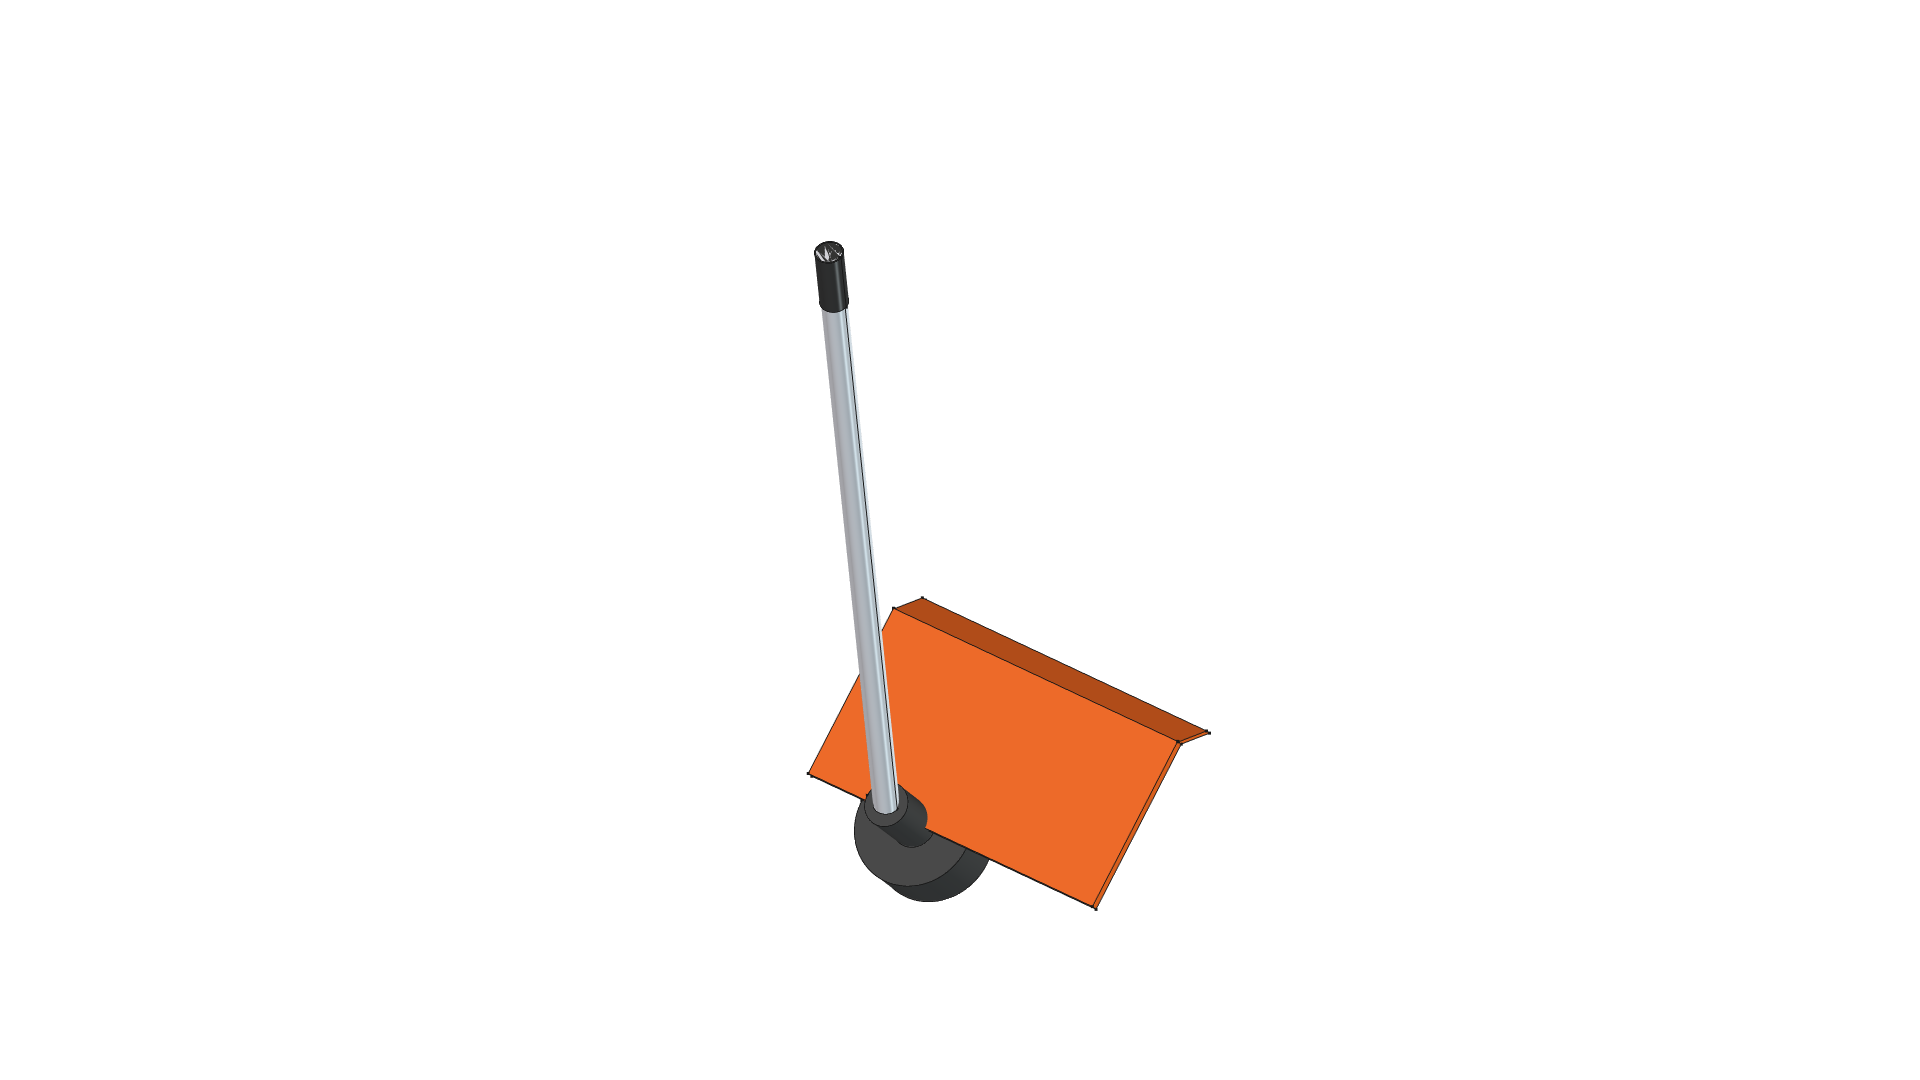
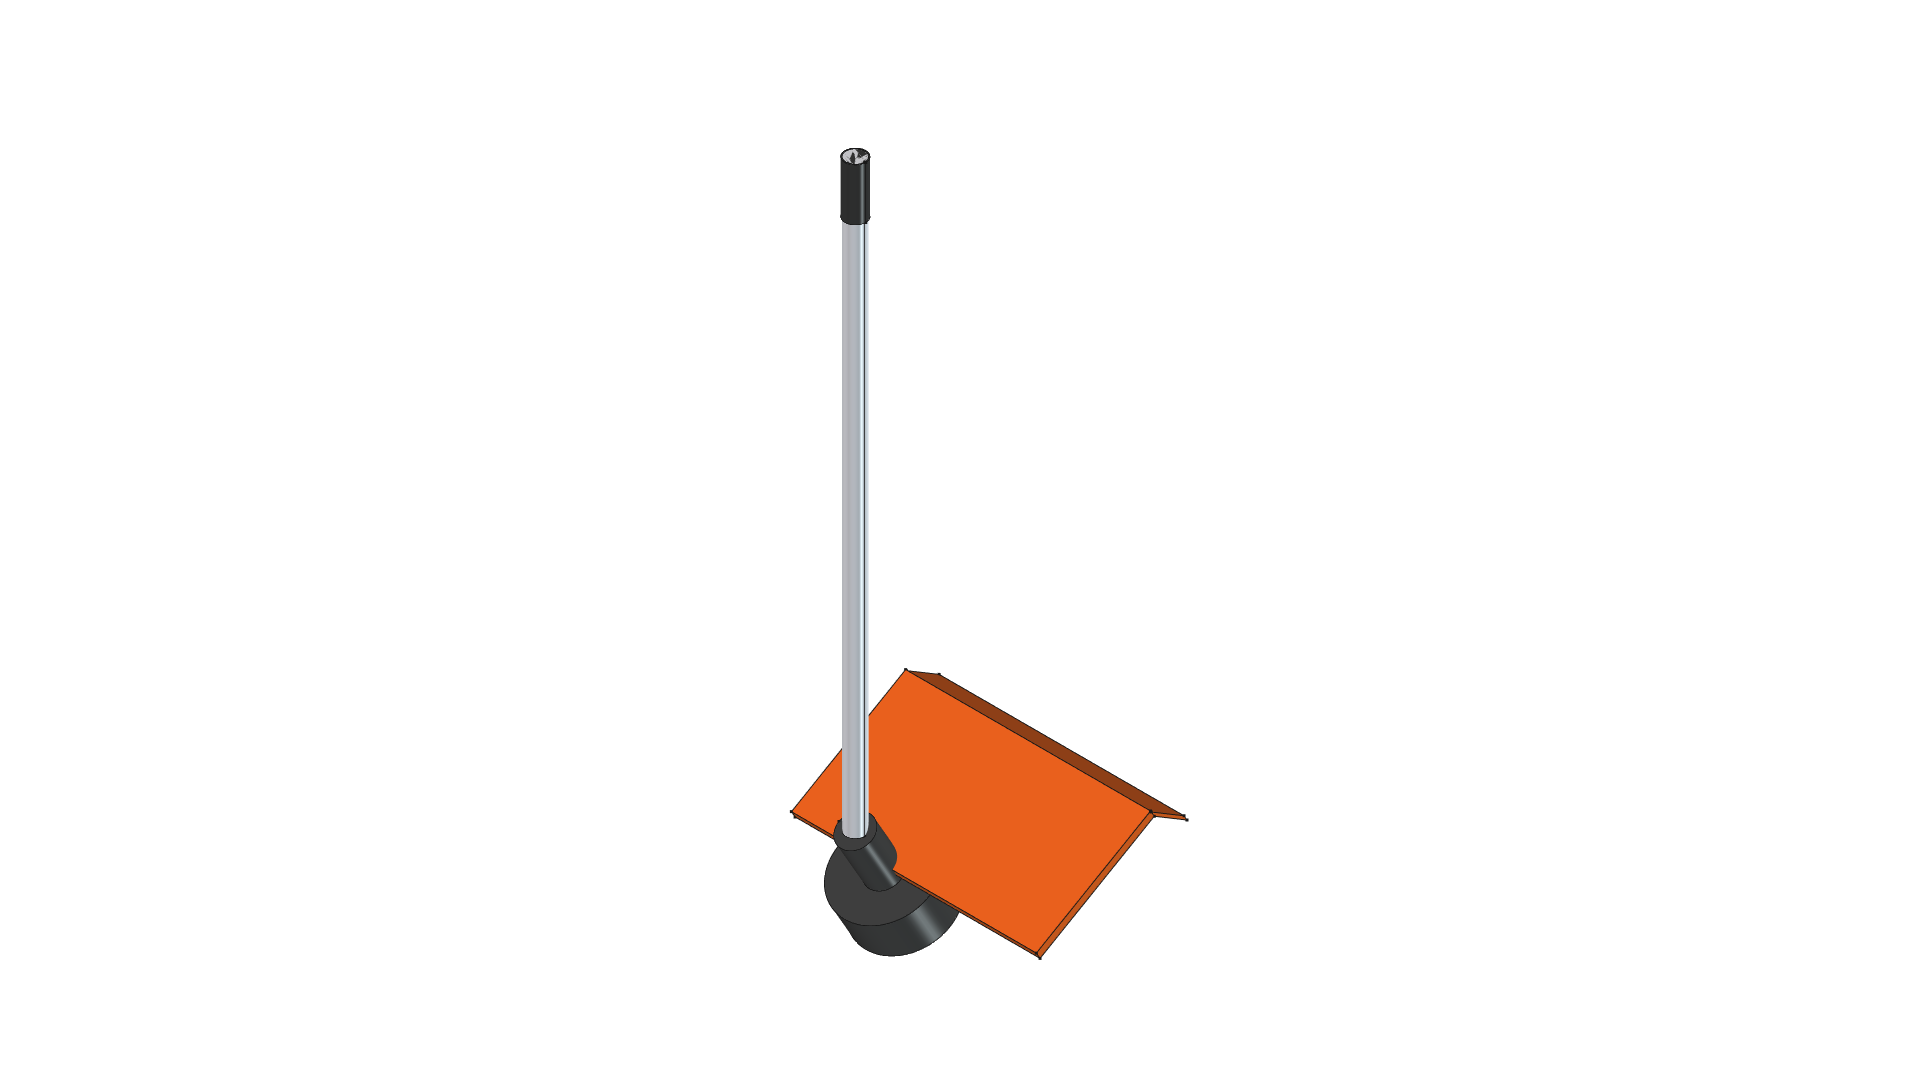
docs(readme): standardize README template structure, separate projects/components on home page, and embed 7-view galleries

Changed region(s): [[0.4062, 0.1222, 0.625, 0.8861]]

diff --git a/components/kombi_tools/build_trimmer.py b/components/kombi_tools/build_trimmer.py
@@ -3,38 +3,21 @@ import sys
 import FreeCAD
 import Part
 
+# Ensure src directory is on sys.path for shared imports
+maker_dir = os.path.abspath(os.path.join(os.path.dirname(__file__), "..", ".."))
+src_dir = os.path.join(maker_dir, "src")
+if src_dir not in sys.path:
+    sys.path.insert(0, src_dir)
+
 try:
     import FreeCADGui
     FreeCADGui.showMainWindow()
     HAS_GUI = True
 except Exception:
+    FreeCADGui = None
     HAS_GUI = False
 
-def render_views(gui_doc, base_path):
-    if not HAS_GUI or not gui_doc:
-        return
-    FreeCADGui.updateGui()
-    view = gui_doc.activeView()
-    if view:
-        try:
-            view.setCameraType("Orthographic")
-            
-            # Iso view
-            view.viewIsometric()
-            view.fitAll()
-            view.saveImage(f"{base_path}_iso.png", 1920, 1080, "White")
-            
-            # Top view
-            view.viewTop()
-            view.fitAll()
-            view.saveImage(f"{base_path}_top.png", 1920, 1080, "White")
-
-            # Right Side View
-            view.viewRight()
-            view.fitAll()
-            view.saveImage(f"{base_path}_side.png", 1920, 1080, "White")
-        except Exception as e:
-            print(f"Camera render note: {e}")
+from phi_works.maker.render import export_orthogonal_views
 
 def build_trimmer_model():
     doc_name = "kombi_trimmer"
@@ -148,8 +131,9 @@ def build_trimmer_model():
     doc.saveAs(fc_path)
     print(f"Saved trimmer model with corrected shield offset to {fc_path}")
 
-    if HAS_GUI:
-        render_views(FreeCADGui.getDocument(doc_name), base_png)
+    if HAS_GUI and FreeCADGui and FreeCADGui.getDocument(doc_name):
+        base_prefix = os.path.join(out_dir, "trimmer")
+        export_orthogonal_views(FreeCADGui.getDocument(doc_name), base_prefix, model_prefix="trimmer")
 
 if __name__ == "__main__":
     build_trimmer_model()

diff --git a/README.md b/README.md
@@ -17,18 +17,6 @@ Rather than expecting an AI agent to generate complex physical objects out of wh
 
 ---
 
-## Master Visual Gallery
-
-| Towable Flame Weeding Sled (v04 Iso) | STIHL Kombi Attachment Caddy (v10 Iso) |
-| :---: | :---: |
-| ![Flame Sled Render](projects/flame-weeding-sled/flame_sled_iso.png) | ![Kombi Caddy Render](projects/caddy/caddy_iso.png) |
-| **Kombi Caddy Front Elevation** | **Kombi Caddy Side Elevation** |
-| ![Kombi Caddy Front](projects/caddy/caddy_front.png) | ![Kombi Caddy Right Side](projects/caddy/caddy_right.png) |
-| **STIHL Straight Shaft Line Trimmer** | **Harbor Freight #91037 Propane Torch** |
-| ![STIHL Line Trimmer Render](components/kombi_tools/trimmer_iso.png) | [Harbor Freight Torch Module Documentation](components/torch_hf91037/) |
-
----
-
 ## Core Operating Principles
 
 ### 1. The Human-AI Collaborative Loop
@@ -54,19 +42,14 @@ Real-world physical assemblies are built from reusable commercial tools, standar
 - **Commercial & Purchased Tools (`components/`)**: Items such as the Harbor Freight #91037 Propane Torch, STIHL Kombi tool attachments, fixed caster wheels, and clevis hitches are modeled once as standalone, independent 3D modules in `components/`. Once modeled, they become permanent, reusable building blocks for any host assembly.
 - **Physical Assembly Projects (`projects/`)**: Complete physical designs (e.g. `caddy`, `flame-weeding-sled`) import these component modules and structure lumber/metal frames around them.
 
-### 3. Practical DIY Shop Focus
-**Maker** prioritizes accessible, real-world shop machinery that fabricators actually own:
-- **Primary Tooling**: Table saws, band saws, miter saws, angle grinders with cut-off wheels, flux-core MIG welders, drill presses, and basic hand tools.
-- **Extensible Pathway**: Designed for seamless future integration with 3D printers, laser cutters, CNC routers, and plasma tables.
-
-### 4. Living Requirements Lifecycle (`REQUIREMENTS.md`)
+### 3. Living Requirements Lifecycle (`REQUIREMENTS.md`)
 Requirements are not static one-time prompts. Each project maintains:
 - **`projects/<project>/REQUIREMENTS.md`**: Master project vision, constraints, and target specifications.
 - **`projects/<project>/vXX/REQUIREMENTS.md`**: Iteration-specific requirements, design trade-offs, and delta refinements.
 
 ---
 
-## Directory Architecture & Master Index
+## Directory Architecture
 
 ```
 /home/phi/PROJECTS/phi-WORKS/maker/
@@ -76,55 +59,52 @@ Requirements are not static one-time prompts. Each project maintains:
 ├── GEMINI.md                 # Agent context & operating manual for Gemini CLI
 ├── ROADMAP.md                # Component library roadmap & physical project goals
 ├── pyproject.toml            # Python package metadata & build settings
+├── src/                      # Primary Python library source (phi_works_maker)
 │
 ├── components/               # Standalone Reusable Commercial Tools & Hardware Library
 │   ├── torch_hf91037/        # Harbor Freight #91037 Propane Torch module & 3D model
 │   └── kombi_tools/          # STIHL Kombi tool attachments & trimmer 3D models
 │
-├── projects/                 # Physical Projects & Master Assemblies
-│   ├── caddy/                # STIHL Kombi Attachment Caddy (v01..v10 master)
-│   └── flame-weeding-sled/   # Towable Flame Weeding Sled (v01..v04 master)
-│
-└── templates/                # Starter boilerplates for new components & projects
-    ├── component_template.py # Boilerplate template for new CAD component modules
-    └── project_template.py   # Boilerplate template for new physical CAD projects
+└── projects/                 # Physical Projects & Master Assemblies
+    ├── caddy/                # STIHL Kombi Attachment Caddy (v01..v10 master)
+    └── flame-weeding-sled/   # Towable Flame Weeding Sled (v01..v04 master)
 ```
 
 ---
 
-## Master Project & Documentation Index
+## Physical Projects
 
 ### 1. [Towable Flame Weeding Sled](projects/flame-weeding-sled/README.md)
-- **Application**: Gravel driveway weed suppression via targeted thermal shock ($150^\circ\text{F}$–$180^\circ\text{F}$).
-- **Torch Component**: [Harbor Freight Propane Torch #91037](components/torch_hf91037/)
-- **Quick Links**:
-  - 📋 [**REQUIREMENTS.md**](projects/flame-weeding-sled/REQUIREMENTS.md): Master Requirements Specification
-  - 📐 [**SPECIFICATION.md**](projects/flame-weeding-sled/v04/SPECIFICATION.md): Version 04 Engineering & Kinematics Spec
-  - ✂ [**CUT_LIST.md**](projects/flame-weeding-sled/v04/CUT_LIST.md): Sheet Metal Panel & Angle Grinder Cut List
-  - 🛠 [**FABRICATION_GUIDE.md**](projects/flame-weeding-sled/v04/FABRICATION_GUIDE.md): MIG Welding & Assembly Guide
-  - 📦 [**BOM.md**](projects/flame-weeding-sled/v04/BOM.md): Complete Bill of Materials & Hardware Specs
-  - 🛠 [**build.py**](projects/flame-weeding-sled/v04/build.py): FreeCAD Parametric Generator Script
-  - 📂 [**Master Directory (v04)**](projects/flame-weeding-sled/v04/): Self-Contained Version 04 Folder
+
+| Project Master Render | Quick Specs & Master Links |
+| :---: | :--- |
+| ![Flame Sled Render](projects/flame-weeding-sled/flame_sled_iso.png) | • **Application**: Gravel driveway weed suppression via thermal shock ($150^\circ\text{F}$–$180^\circ\text{F}$).<br>• **Master Version**: [**Version 04**](projects/flame-weeding-sled/v04/)<br>• 📋 [**REQUIREMENTS.md**](projects/flame-weeding-sled/REQUIREMENTS.md)<br>• 📐 [**SPECIFICATION.md**](projects/flame-weeding-sled/v04/SPECIFICATION.md)<br>• ✂ [**CUT_LIST.md**](projects/flame-weeding-sled/v04/CUT_LIST.md)<br>• 🛠 [**FABRICATION_GUIDE.md**](projects/flame-weeding-sled/v04/FABRICATION_GUIDE.md)<br>• 📦 [**BOM.md**](projects/flame-weeding-sled/v04/BOM.md) |
 
 ### 2. [STIHL Kombi Attachment Caddy](projects/caddy/README.md)
-- **Application**: Heavy-duty 2x4 mobile storage rack for STIHL KombiSystem powerhead and attachments.
-- **Component Library**: [STIHL Kombi Tools Component Library](components/kombi_tools/)
-- **Quick Links**:
-  - 📋 [**REQUIREMENTS.md**](projects/caddy/REQUIREMENTS.md): Master Requirements Specification
-  - 📐 [**SPECIFICATION.md**](projects/caddy/v10/SPECIFICATION.md): Version 10 Engineering & Joinery Spec
-  - ✂ [**CUT_LIST.md**](projects/caddy/v10/CUT_LIST.md): Lumber Cut List, Dado Notch Specs & Fasteners
-  - 🛠 [**build.py**](projects/caddy/v10/build.py): FreeCAD Parametric Generator Script
-  - 📂 [**Master Directory (v10)**](projects/caddy/v10/): Self-Contained Version 10 Folder
 
-### 3. Reusable Commercial Components Library
-- 🛠 **Harbor Freight #91037 Torch**: [`components/torch_hf91037/README.md`](components/torch_hf91037/README.md) | [`torch_hf91037.py`](components/torch_hf91037/torch_hf91037.py) | [`torch_hf91037.FCStd`](components/torch_hf91037/torch_hf91037.FCStd)
-- 🛠 **STIHL Kombi Attachment Suite**: [`components/kombi_tools/README.md`](components/kombi_tools/README.md) | [`build_trimmer.py`](components/kombi_tools/build_trimmer.py) | [`trimmer.FCStd`](components/kombi_tools/trimmer.FCStd) | [`build_kombi_tools.py`](components/kombi_tools/build_kombi_tools.py)
+| Project Master Render | Quick Specs & Master Links |
+| :---: | :--- |
+| ![Kombi Caddy Render](projects/caddy/caddy_iso.png) | • **Application**: Mobile 2x4 wooden rack for STIHL KombiSystem storage.<br>• **Master Version**: [**Version 10**](projects/caddy/v10/)<br>• 📋 [**REQUIREMENTS.md**](projects/caddy/REQUIREMENTS.md)<br>• 📐 [**SPECIFICATION.md**](projects/caddy/v10/SPECIFICATION.md)<br>• ✂ [**CUT_LIST.md**](projects/caddy/v10/CUT_LIST.md)<br>• 🛠 [**build.py**](projects/caddy/v10/build.py) |
+
+---
+
+## Component Libraries
+
+### 1. [Harbor Freight #91037 Propane Torch](components/torch_hf91037/README.md)
+
+| Component Render | Specifications & Links |
+| :---: | :--- |
+| ![Harbor Freight Torch Render](components/torch_hf91037/torch_hf91037_iso.png) | • **Application**: High-output propane burner with push-button igniter.<br>• 🛠 [**`torch_hf91037.py`**](components/torch_hf91037/torch_hf91037.py)<br>• 📦 [**`torch_hf91037.FCStd`**](components/torch_hf91037/torch_hf91037.FCStd) |
+
+### 2. [STIHL Kombi Tools Component Library](components/kombi_tools/README.md)
+
+| Component Render | Specifications & Links |
+| :---: | :--- |
+| ![STIHL Line Trimmer Render](components/kombi_tools/trimmer_iso.png) | • **Application**: 3D parametric models for STIHL straight-shaft attachments.<br>• 🛠 [**`build_trimmer.py`**](components/kombi_tools/build_trimmer.py)<br>• 📦 [**`trimmer.FCStd`**](components/kombi_tools/trimmer.FCStd) |
 
 ---
 
 ## FreeCAD Execution Commands
-
-To build the active master model of any project directly in FreeCAD headless mode:
 
 ```bash
 # Build Caddy Version 10 Master Model

diff --git a/projects/flame-weeding-sled/v04/README.md b/projects/flame-weeding-sled/v04/README.md
@@ -1,27 +1,39 @@
-# Towable Flame Weeding Sled — Version 04 (Master)
+# Towable Flame Weeding Sled - Version 04 (Master Version)
 
 **Version Directory**: `projects/flame-weeding-sled/v04/`  
-**Master Model Copy**: [`../flame_sled.FCStd`](../flame_sled.FCStd)  
-**Status**: **Optimal Master Version**  
+**Master Version CAD Model**: [`sled_v04.FCStd`](sled_v04.FCStd)  
+**Parent Project**: [Flame Weeding Sled Master Directory](../)  
 
 ---
 
-## 3D CAD Model Render (v04)
+## Version Overview
 
-![Flame Sled v04 Render](sled_v04.png)
+**Version 04** is the active master release of the Towable Flame Weeding Sled. It organizes the 3D parametric FreeCAD assembly into 4 modular `App::DocumentObjectGroup` containers (`Flame_Sled_Pyramid_Hood`, `Overhead_Support_Frame`, `Rigid_Towbar_Hitch`, `Harbor_Freight_Torch_91037`).
 
 ---
 
-## Version 04 Directory Index
+## 3D CAD Multi-View Projection Gallery (v04)
 
-- 🛠 [**`build.py`**](build.py): FreeCAD Python parametric generator script for Version 04.
-- 📦 [**`sled_v04.FCStd`**](sled_v04.FCStd): FreeCAD 3D Master Model document file.
-- 🖼 [**`sled_v04.png`**](sled_v04.png): High-resolution 3D CAD isometric render snapshot.
-- 📋 [**`REQUIREMENTS.md`**](REQUIREMENTS.md): Version 04 specific requirement refinements, delta matrix, and verification status.
-- 📐 [**`SPECIFICATION.md`**](SPECIFICATION.md): Version 04 detailed engineering specification, thermal physics, geometry, and torch interface.
-- ✂ [**`CUT_LIST.md`**](CUT_LIST.md): DIY cut list tailored for angle grinder cut-off wheels and flux-core MIG welding, flat trapezoid panel templates, and skid tips.
-- 🛠 [**`FABRICATION_GUIDE.md`**](FABRICATION_GUIDE.md): Step-by-step assembly guide, weld sequence, frame fitting, and safety checklist.
-- 📦 [**`BOM.md`**](BOM.md): Complete Bill of Materials, dimensions, quantities, weights (~22.2 lbs dry sled), and sourcing links.
+| Isometric (Home View) | Top Plan View |
+| :---: | :---: |
+| ![Isometric View](sled_v04_iso.png) | ![Top View](sled_v04_top.png) |
+| **Front Elevation** | **Rear Elevation** |
+| ![Front Elevation](sled_v04_front.png) | ![Rear Elevation](sled_v04_back.png) |
+| **Right Side Elevation** | **Left Side Elevation** |
+| ![Right Side View](sled_v04_right.png) | ![Left Side View](sled_v04_left.png) |
+| **Bottom Plan View** | |
+| ![Bottom View](sled_v04_bottom.png) | |
+
+---
+
+## Version Documentation Index
+
+- 📋 [**REQUIREMENTS.md**](REQUIREMENTS.md): Version 04 requirements, target operating speed, thermal constraints, and puller ergonomic safety.
+- 📐 [**SPECIFICATION.md**](SPECIFICATION.md): Version 04 engineering specification, hood apex collar, torch angle, and hitch pin dimensions.
+- ✂ [**CUT_LIST.md**](CUT_LIST.md): Cut list for angle grinder prep, flat sheet metal panels, and angle iron frame rails.
+- 🛠 [**FABRICATION_GUIDE.md**](FABRICATION_GUIDE.md): Step-by-step welding, assembly, torch clamping, and operating guide.
+- 📦 [**BOM.md**](BOM.md): Complete itemized Bill of Materials with hardware callouts.
+- 🛠 [**`build.py`**](build.py): FreeCAD Python parametric build generator script.
 
 ---
 

diff --git a/projects/flame-weeding-sled/README.md b/projects/flame-weeding-sled/README.md
@@ -3,7 +3,7 @@
 **Project Location**: `projects/flame-weeding-sled/`  
 **Master CAD Model**: [`flame_sled.FCStd`](flame_sled.FCStd) (Master copy of Version 04)  
 **Latest Optimal Version**: **[Version 04](v04/)**  
-**Torch Unit**: [Harbor Freight Propane Torch #91037](../../components/torch_hf91037/)  
+**Torch Component Unit**: [Harbor Freight Propane Torch #91037](../../components/torch_hf91037/)  
 
 ---
 
@@ -13,13 +13,17 @@ The **Towable Flame Weeding Sled** is a lightweight, heat-concentrating drag hoo
 
 ---
 
-## Master 3D CAD Renders (Version 04)
+## Master 3D CAD Multi-View Projection Gallery (v04)
 
-| Isometric View | Top View |
+| Isometric (Home View) | Top Plan View |
 | :---: | :---: |
-| ![Isometric Render](flame_sled_iso.png) | ![Top View Render](flame_sled_top.png) |
-| **Side Profile View** | **Front View** |
-| ![Side View Render](flame_sled_side.png) | ![Front View Render](flame_sled_front.png) |
+| ![Isometric View](flame_sled_iso.png) | ![Top View](flame_sled_top.png) |
+| **Front Elevation** | **Rear Elevation** |
+| ![Front Elevation](flame_sled_front.png) | ![Rear Elevation](flame_sled_back.png) |
+| **Right Side Elevation** | **Left Side Elevation** |
+| ![Right Side View](flame_sled_right.png) | ![Left Side View](flame_sled_left.png) |
+| **Bottom Plan View** | |
+| ![Bottom View](flame_sled_bottom.png) | |
 
 ---
 
@@ -47,7 +51,7 @@ The **Towable Flame Weeding Sled** is a lightweight, heat-concentrating drag hoo
 
 ## FreeCAD Build Command
 
-To build the active master model (Version 04) directly in FreeCAD headless mode:
+To build the active master model (Version 04) and generate all 7 orthographic view renders:
 
 ```bash
 /home/phi/AppImages/FreeCAD_1.1.3-Linux-x86_64-py311.AppImage -c "__file__='/home/phi/PROJECTS/phi-WORKS/maker/projects/flame-weeding-sled/v04/build.py'; exec(open(__file__).read())"

diff --git a/components/torch_hf91037/README.md b/components/torch_hf91037/README.md
@@ -9,7 +9,24 @@
 
 This module is a standalone 3D CAD representation of the **Harbor Freight #91037 High-Output Propane Torch**. Built as a reusable building block in `components/`, it provides accurate parametric geometry and clean insertion origins for host assembly projects (such as the [Towable Flame Weeding Sled](../../projects/flame-weeding-sled/)).
 
-### Model Specifications & Insertion Origin:
+---
+
+## 3D CAD Multi-View Projection Gallery
+
+| Isometric (Home View) | Top Plan View |
+| :---: | :---: |
+| ![Isometric View](torch_hf91037_iso.png) | ![Top View](torch_hf91037_top.png) |
+| **Front Elevation** | **Rear Elevation** |
+| ![Front Elevation](torch_hf91037_front.png) | ![Rear Elevation](torch_hf91037_back.png) |
+| **Right Side Elevation** | **Left Side Elevation** |
+| ![Right Side View](torch_hf91037_right.png) | ![Left Side View](torch_hf91037_left.png) |
+| **Bottom Plan View** | |
+| ![Bottom View](torch_hf91037_bottom.png) | |
+
+---
+
+## Model Specifications & Insertion Origin
+
 - **Insertion Origin $(0,0,0)$**: Centered at the base of the brass flow control valve / tank connection fitting.
 - **Bell Nozzle Apex**: Positioned along $+Z$ axis with flame orifice at $(0, 0, 812.8\text{ mm})$.
 - **Sub-Features**:
@@ -30,7 +47,7 @@ This module is a standalone 3D CAD representation of the **Harbor Freight #91037
 
 ## FreeCAD Execution Command
 
-To re-generate the standalone FreeCAD torch model document:
+To re-generate the standalone FreeCAD torch model document and all 7 views:
 
 ```bash
 /home/phi/AppImages/FreeCAD_1.1.3-Linux-x86_64-py311.AppImage -c "__file__='/home/phi/PROJECTS/phi-WORKS/maker/components/torch_hf91037/torch_hf91037.py'; exec(open(__file__).read())"

diff --git a/components/kombi_tools/README.md b/components/kombi_tools/README.md
@@ -11,13 +11,17 @@ This component library provides 3D parametric CAD models for **STIHL KombiSystem
 
 ---
 
-## 3D CAD Renders & Visual Layout
+## 3D CAD Multi-View Projection Gallery (Straight Shaft Trimmer)
 
-| STIHL Straight Shaft Line Trimmer | Full Kombi Attachment Suite |
+| Isometric (Home View) | Top Plan View |
 | :---: | :---: |
-| ![Line Trimmer Iso View](trimmer_iso.png) | ![Kombi Suite Render](kombi_tools.png) |
-| **Trimmer Angle View** | **Trimmer Side Profile** |
-| ![Kombi Trimmer Iso](kombi_trimmer_iso.png) | ![Trimmer Side Render](trimmer_side.png) |
+| ![Isometric View](trimmer_iso.png) | ![Top View](trimmer_top.png) |
+| **Front Elevation** | **Rear Elevation** |
+| ![Front Elevation](trimmer_front.png) | ![Rear Elevation](trimmer_back.png) |
+| **Right Side Elevation** | **Left Side Elevation** |
+| ![Right Side View](trimmer_right.png) | ![Left Side View](trimmer_left.png) |
+| **Bottom Plan View** | |
+| ![Bottom View](trimmer_bottom.png) | |
 
 ---
 
@@ -47,7 +51,7 @@ This component library provides 3D parametric CAD models for **STIHL KombiSystem
 ## FreeCAD Execution Commands
 
 ```bash
-# Build Standalone Line Trimmer Component
+# Build Standalone Line Trimmer Component & 7-View Gallery
 /home/phi/AppImages/FreeCAD_1.1.3-Linux-x86_64-py311.AppImage -c "__file__='/home/phi/PROJECTS/phi-WORKS/maker/components/kombi_tools/build_trimmer.py'; exec(open(__file__).read())"
 
 # Build Multi-Tool Kombi Suite Assembly
